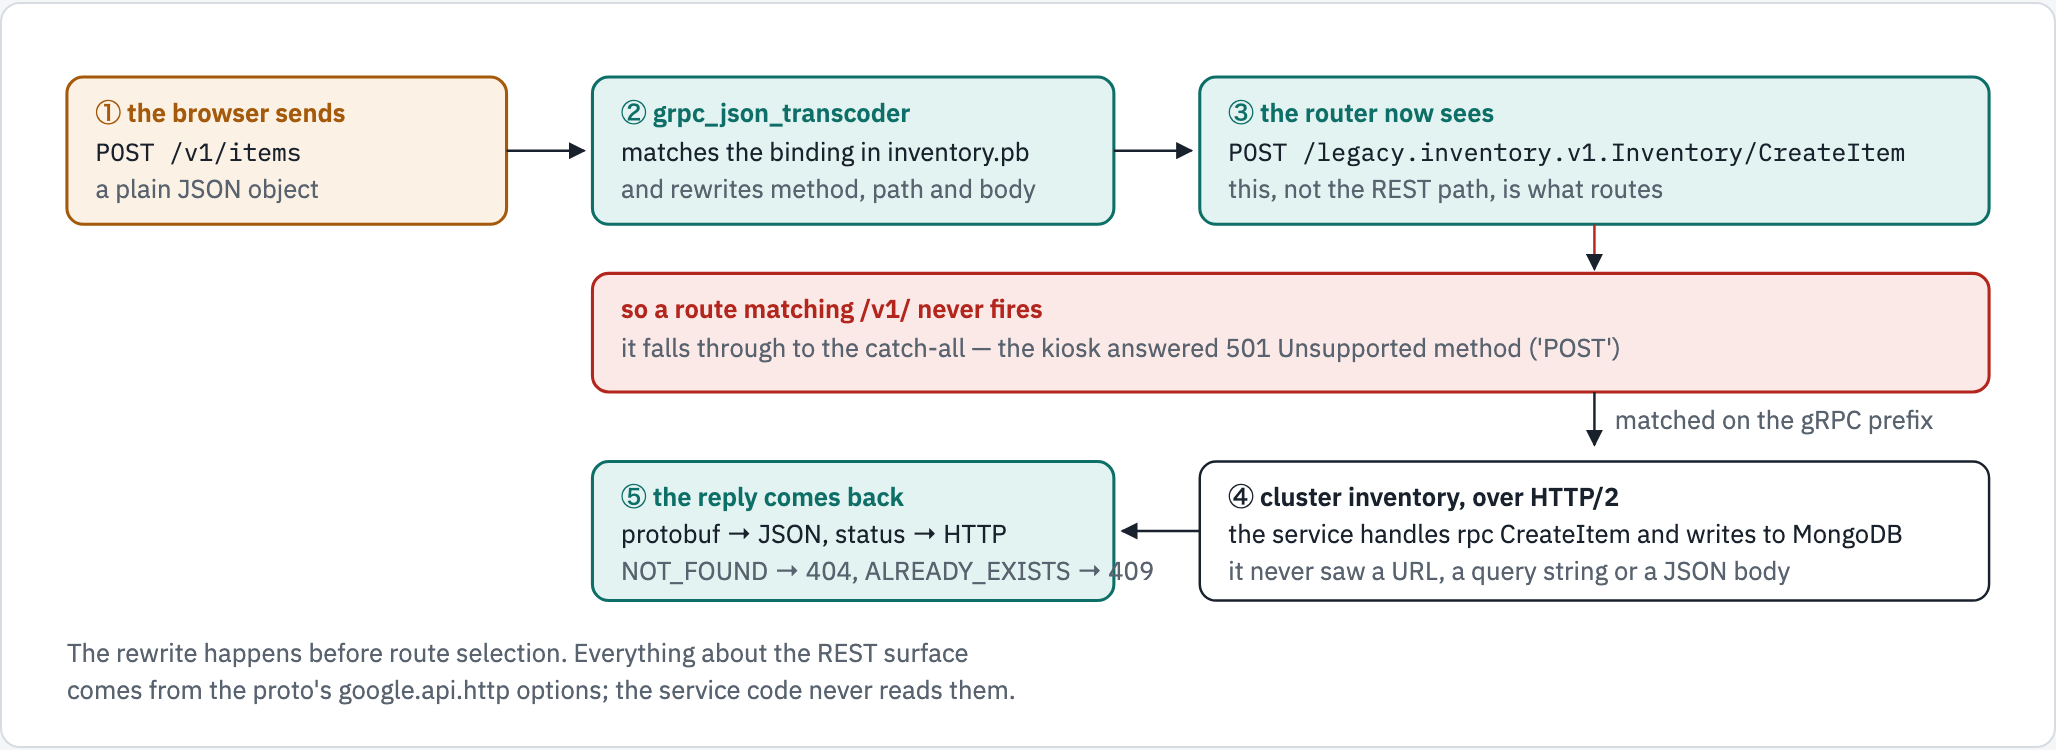
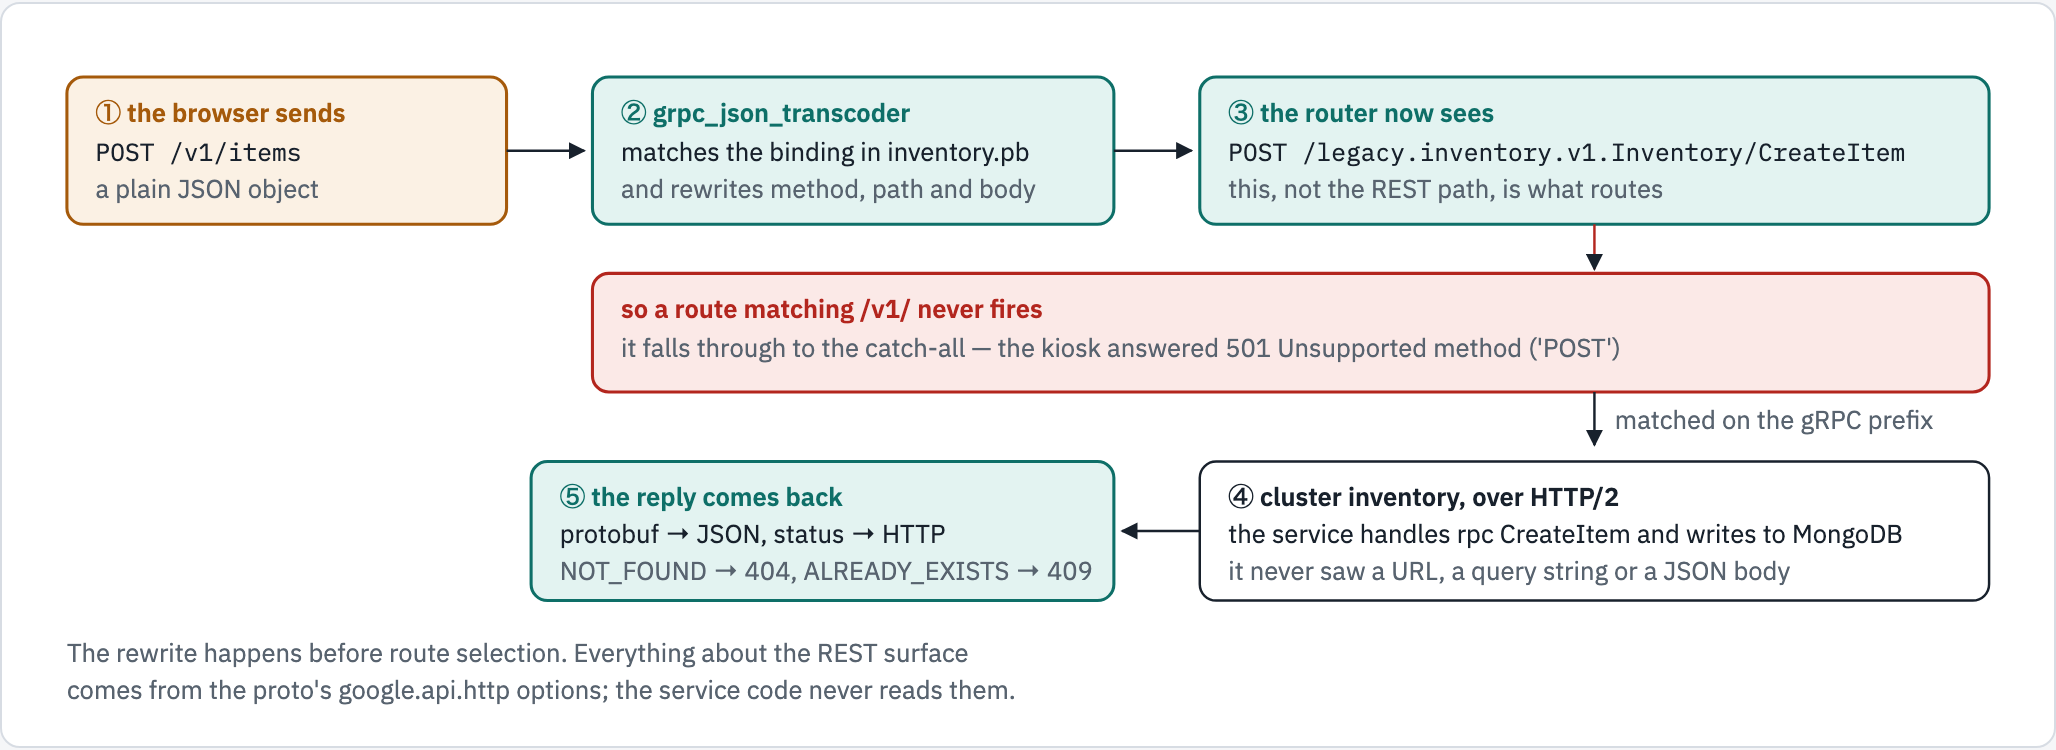
docs: the architecture figures pass diagram-kit (the 4.82:1 grey, a label inside its box)
- modernize-architecture: the grey token. In figure 2 (request), "NOT_FOUND → 404, ALREADY_EXISTS → 409" ran 20 px past the ⑤ box; the box is 30 units wider to the left, into empty space, so the arrow from ④ still meets its right edge.

Every figure page in this repository now passes diagram-kit
(https://github.com/ephico2real2/diagram-kit, v0.1.0, MPL-2.0), the shared template,
renderer and standard that replace the per-repository copies.

- The light --none grey moves from #6b7684 to the template's #5f6a77: 4.04:1 on
  --none-wash failed WCAG 2.2 SC 1.4.3 (4.5:1); #5f6a77 is 4.82:1. Dark is unchanged.
- Each changed page is re-rendered with the kit, which writes PNGs only when every
  check passes: no page error or failed request, no fallback face, no label past its
  box, 4.5:1 text in both themes, a label on every dashed arrow, no sideways scroll at
  375 px. A PNG byte-identical to the committed one shows no change.

Changed region(s): [[0.249, 0.6133, 0.5603, 0.828]]

diff --git a/docs/diagrams/modernize-architecture/source.html b/docs/diagrams/modernize-architecture/source.html
@@ -6,7 +6,7 @@
 :root {
   --ground: #f5f6f8; --surface: #ffffff; --ink: #18212c; --muted: #58636f; --rule: #d7dce3;
   --host: #a55a0b; --host-wash: #fbf1e4; --remote: #0e6f68; --remote-wash: #e3f3f1;
-  --gap: #b3261e; --gap-wash: #fbe9e7; --none: #6b7684; --none-wash: #eef0f3;
+  --gap: #b3261e; --gap-wash: #fbe9e7; --none: #5f6a77; --none-wash: #eef0f3;
   --font-body: "IBM Plex Sans", system-ui, -apple-system, "Segoe UI", sans-serif;
   --font-mono: "IBM Plex Mono", ui-monospace, "SF Mono", Menlo, monospace;
 }
@@ -222,10 +222,10 @@ a { color: var(--remote); }
 
             <line x1="574" y1="246" x2="536" y2="246" stroke="currentColor" stroke-width="1.2" marker-end="url(#a2)"/>
 
-            <rect x="277" y="212" width="255" height="68" rx="8" fill="var(--remote-wash)" stroke="var(--remote)" stroke-width="1.5"/>
-            <text x="291" y="234" font-weight="600" fill="var(--remote)">&#9316; the reply comes back</text>
-            <text x="291" y="252">protobuf &#8594; JSON, status &#8594; HTTP</text>
-            <text x="291" y="270" fill="var(--muted)">NOT_FOUND &#8594; 404, ALREADY_EXISTS &#8594; 409</text>
+            <rect x="247" y="212" width="285" height="68" rx="8" fill="var(--remote-wash)" stroke="var(--remote)" stroke-width="1.5"/>
+            <text x="261" y="234" font-weight="600" fill="var(--remote)">&#9316; the reply comes back</text>
+            <text x="261" y="252">protobuf &#8594; JSON, status &#8594; HTTP</text>
+            <text x="261" y="270" fill="var(--muted)">NOT_FOUND &#8594; 404, ALREADY_EXISTS &#8594; 409</text>
 
             <text x="20" y="310" fill="var(--muted)">The rewrite happens before route selection. Everything about the REST surface</text>
             <text x="20" y="328" fill="var(--muted)">comes from the proto&#39;s google.api.http options; the service code never reads them.</text>
